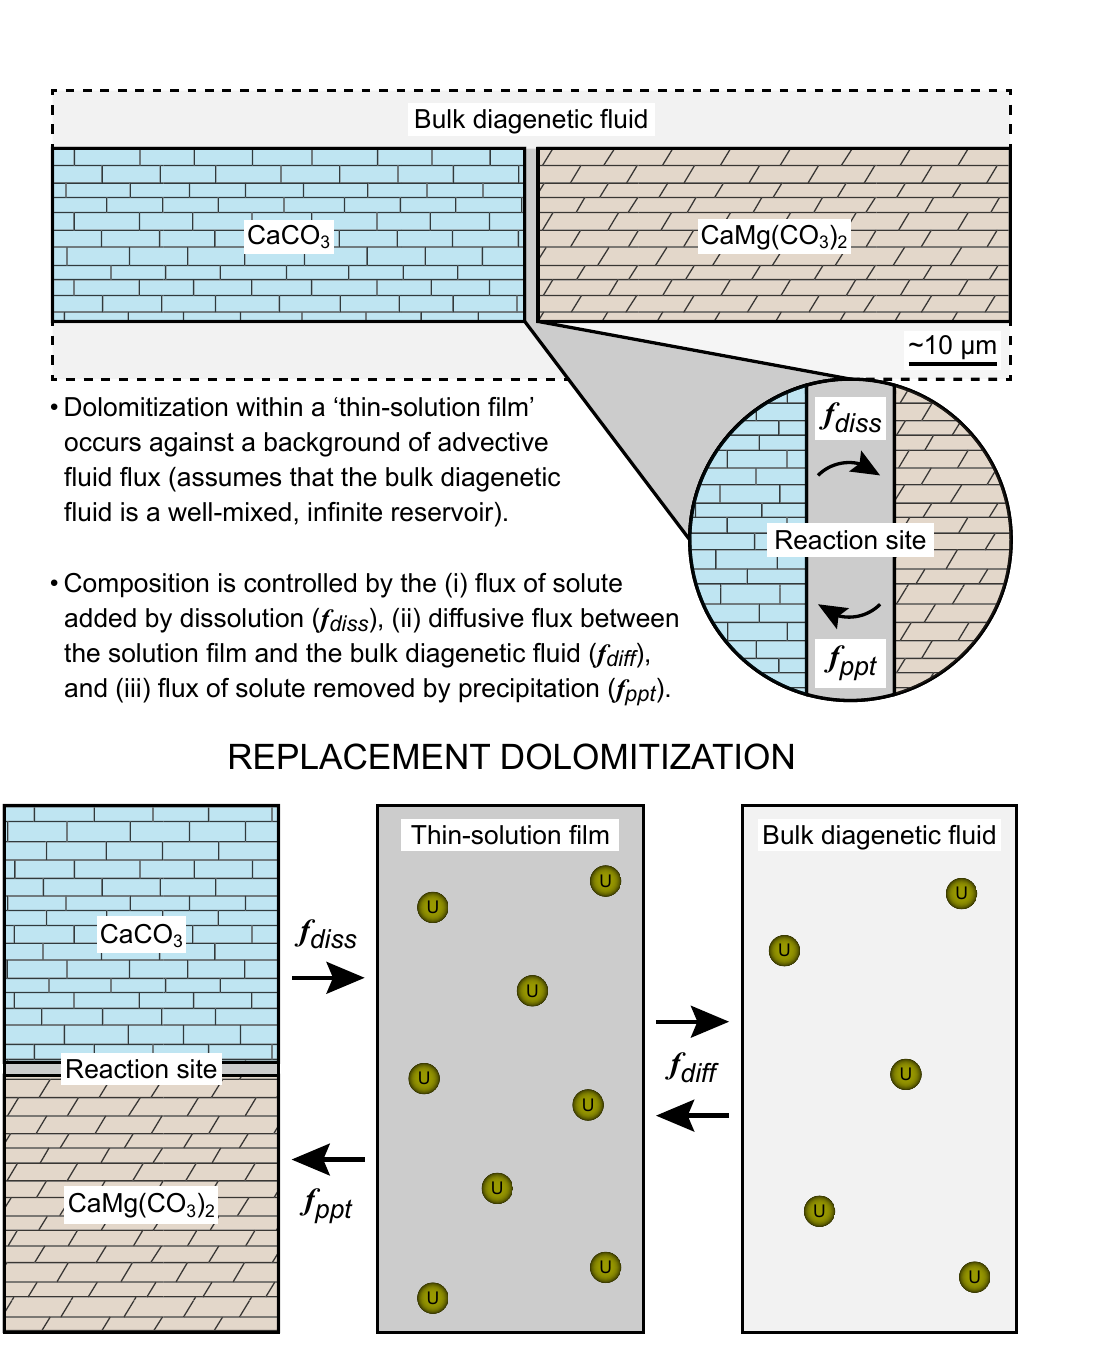
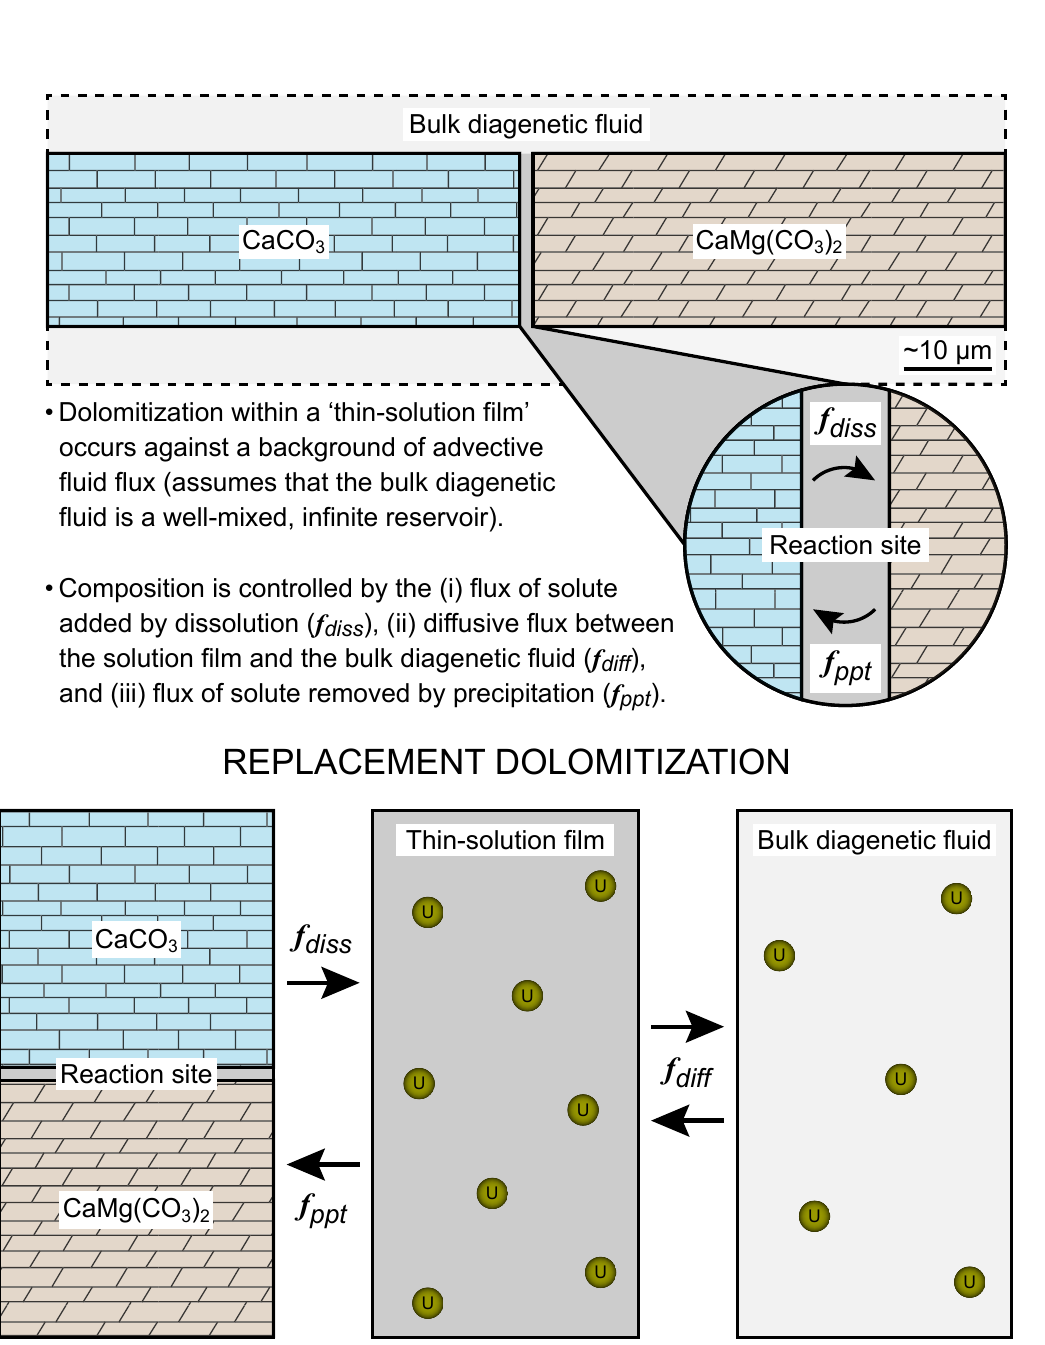
Re-crop mechanism figure with balanced margins; minor wording tweak on Proxy Calibration page

diff --git a/research-proxy-calibration.html b/research-proxy-calibration.html
@@ -59,7 +59,7 @@
       the precursor limestone. That distinction matters beyond uranium &mdash; if one geochemical proxy
       is rock-buffered while others (e.g., strontium and iodine) are fluid-buffered, a single
       &ldquo;diagenetic correction&rdquo; cannot be applied across the geologic record. Each proxy must
-      be calibrated on its own terms before it can be trusted to reconstruct the geochemical composition
+      be calibrated independently before it can be trusted to reconstruct the geochemical composition
       of ancient seawater.
     </p>
   </section>
